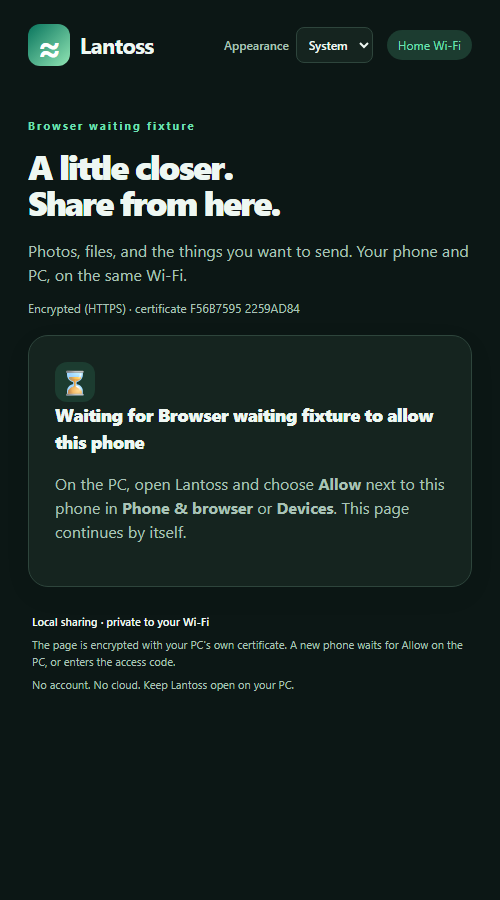
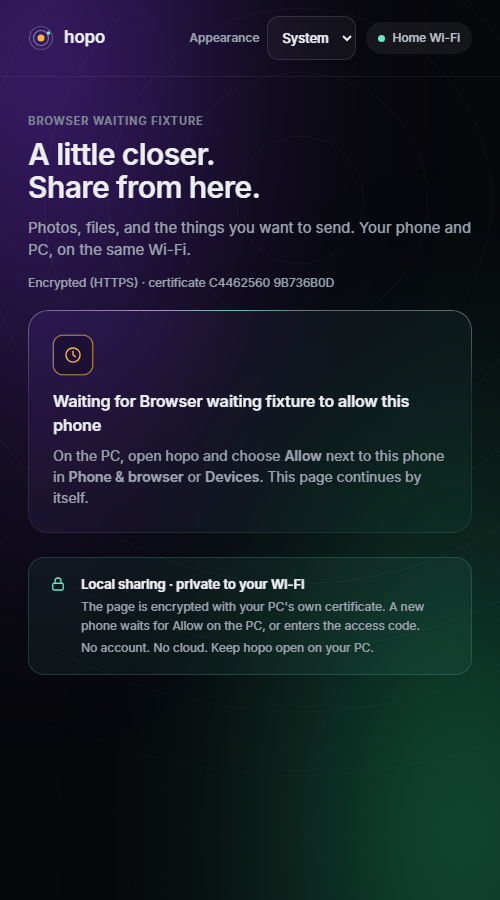
feat(phone): restyle the phone page to hopo
Glass cards, purple and green glows with faint rings, amber buttons and
mint status in dark and a matching light palette, the hopo mark in the
header and line icons. The visible name on the phone page is now hopo;
the CSRF header, cookie and ids are unchanged. Previews re-rendered.

diff --git a/source/Browser/portal.css b/source/Browser/portal.css
@@ -1,114 +1,149 @@
-/* Lantoss browser palette. Keep these tokens aligned with Core/Appearance.cs. */
-:root{color-scheme:light;--bg:#f1f5f3;--surface:#fff;--text:#0e211d;--muted:#4a625c;--border:#cedcd6;--primary:#08634f;--mint:#0f6b47;--sidebar:#e6eeea;--soft:#d8efe5;--accent:#0a6e58;--on-accent:#fff;--danger:#b42f37;--danger-soft:#fce7e6}
+/* hopo browser palette. Keep these tokens aligned with Core/Appearance.cs. */
+:root{color-scheme:light;--ground:#f4f5f9;--text:#14161d;--muted:#555c6b;--eyebrow:#5c6372;--glass:rgba(255,255,255,.76);--glass-border:rgba(20,22,29,.14);--edge:rgba(255,255,255,.95);--sheen-a:rgba(169,139,255,.7);--sheen-b:rgba(95,217,174,.7);--line:rgba(20,22,29,.1);--well:rgba(20,22,29,.035);--field:rgba(255,255,255,.92);--field-border:rgba(20,22,29,.2);--secondary:rgba(20,22,29,.04);--secondary-border:rgba(20,22,29,.16);--secondary-hover:rgba(20,22,29,.08);--chip:rgba(20,22,29,.06);--chip-text:#3f4552;--accent:#f5b54a;--accent-hover:#ffc567;--on-accent:#1a1204;--link:#8a5300;--mint:#0b7a5f;--mint-soft:rgba(11,122,95,.08);--mint-border:rgba(11,122,95,.24);--phone:#7b4fd6;--phone-soft:rgba(123,79,214,.1);--danger:#b42f37;--danger-soft:rgba(180,47,55,.08);--glow-a:rgba(169,139,255,.3);--glow-a-mid:rgba(169,139,255,.1);--glow-b:rgba(95,217,174,.26);--glow-b-mid:rgba(95,217,174,.09);--ring:rgba(20,22,29,.045);--shadow:0 10px 30px rgba(20,22,29,.06)}
 
 *{box-sizing:border-box}
-body{margin:0;background:var(--bg);color:var(--text);font-family:system-ui,-apple-system,"Segoe UI",sans-serif;line-height:1.5}
-header{max-width:1032px;margin:auto;padding:24px 28px;display:flex;align-items:center;justify-content:space-between}
-.brand{display:flex;align-items:center;gap:10px;color:var(--text);text-decoration:none;font-size:22px;font-weight:750;letter-spacing:-.6px}
-.logo{display:grid;place-items:center;background:linear-gradient(135deg,#08745d,#91e5b4);color:white;border-radius:12px;width:42px;height:42px;font-size:35px;line-height:1}
-.pill{font-size:12px;background:var(--soft);color:var(--primary);padding:6px 11px;border-radius:20px}
-main{max-width:880px;margin:28px auto 60px;padding:0 28px}
-.eyebrow{font-size:11px;letter-spacing:2px;font-weight:700;color:var(--primary);margin:0 0 13px}
-h1{font-size:clamp(34px,6vw,54px);font-weight:800;line-height:1.08;letter-spacing:-1.8px;margin:0 0 18px}
-.intro{font-size:16px;color:var(--muted);max-width:530px;margin:0 0 26px}
-.security{font-size:12px;color:var(--muted);margin:-14px 0 18px}
-.card{background:var(--surface);border:1px solid var(--border);border-radius:20px;padding:26px;margin:18px 0;box-shadow:0 8px 28px #0000000d}
-.host{display:flex;align-items:center;gap:14px;margin:0 0 13px}.host .eyebrow{margin:0}
-#host-picture{width:44px;height:44px;border-radius:50%;object-fit:cover;border:2px solid var(--accent)}
-.avatar{flex:0 0 auto;display:grid;place-items:center;width:48px;height:48px;border-radius:50%;overflow:hidden;background:var(--soft);color:var(--primary);font-weight:800;font-size:19px}
+html{background:var(--ground)}
+body{margin:0;min-height:100vh;position:relative;background:var(--ground);color:var(--text);font-family:'Inter',system-ui,-apple-system,'Segoe UI',Roboto,sans-serif;font-size:14px;line-height:1.5;-webkit-font-smoothing:antialiased}
+a{color:var(--link);text-decoration:none}
+a:hover{text-decoration:underline}
+.aurora{position:fixed;inset:0;overflow:hidden;pointer-events:none;z-index:0}
+.glow{position:absolute;width:125%;height:135%;border-radius:50%;filter:blur(70px)}
+.glow-a{left:-55%;top:-60%;background:radial-gradient(closest-side,var(--glow-a),var(--glow-a-mid) 55%,transparent);animation:hopo-drift-a 60s ease-in-out infinite alternate}
+.glow-b{right:-55%;bottom:-60%;background:radial-gradient(closest-side,var(--glow-b),var(--glow-b-mid) 55%,transparent);animation:hopo-drift-b 68s ease-in-out infinite alternate}
+.rings{position:absolute;right:-700px;top:-700px;width:1800px;height:1800px;border-radius:50%;background:repeating-radial-gradient(circle,transparent 0 63px,var(--ring) 63px 64px);-webkit-mask:radial-gradient(circle,#000 25%,transparent 68%);mask:radial-gradient(circle,#000 25%,transparent 68%)}
+@keyframes hopo-drift-a{to{transform:translate(14%,10%) scale(.95)}}
+@keyframes hopo-drift-b{to{transform:translate(-18%,-12%) scale(1.1)}}
+header,main{position:relative;z-index:1}
+header{max-width:1032px;margin:auto;padding:16px 28px;display:flex;align-items:center;justify-content:space-between;gap:16px;border-bottom:1px solid var(--line)}
+.brand{display:flex;align-items:center;gap:10px;min-height:44px;color:var(--text);text-decoration:none;font-size:17px;font-weight:600;letter-spacing:-.01em}
+.brand:hover{text-decoration:none}
+.mark{flex:none}
+.mark-dot{fill:var(--mint)}
+.pill{display:inline-flex;align-items:center;gap:7px;height:32px;padding:0 12px;border-radius:999px;font-size:12px;font-weight:500;background:var(--chip);color:var(--chip-text);white-space:nowrap}
+.pill::before{content:"";width:7px;height:7px;border-radius:50%;background:var(--mint)}
+main{max-width:880px;margin:0 auto;padding:36px 28px 64px}
+.eyebrow{font-size:11px;letter-spacing:.08em;text-transform:uppercase;font-weight:600;color:var(--eyebrow);margin:0 0 8px}
+h1{font-size:clamp(28px,6vw,40px);font-weight:600;line-height:1.12;letter-spacing:-.02em;margin:0 0 12px}
+.intro{font-size:15px;color:var(--muted);max-width:530px;margin:0 0 20px}
+.security{font-size:12px;color:var(--muted);margin:-8px 0 18px}
+.card{position:relative;background:var(--glass);border:1px solid var(--glass-border);border-radius:20px;padding:24px;margin:16px 0;box-shadow:var(--shadow);-webkit-backdrop-filter:blur(20px) saturate(140%);backdrop-filter:blur(20px) saturate(140%)}
+.card::before{content:"";position:absolute;inset:-1px;border-radius:inherit;padding:1px;background:linear-gradient(180deg,var(--edge),transparent 40%);-webkit-mask:linear-gradient(#000 0 0) content-box,linear-gradient(#000 0 0);-webkit-mask-composite:xor;mask-composite:exclude;pointer-events:none}
+.card::after{content:"";position:absolute;left:18%;right:18%;top:-1px;height:1px;background:linear-gradient(90deg,transparent,var(--sheen-a),var(--sheen-b),transparent);pointer-events:none;animation:hopo-sheen 7s ease-in-out infinite alternate}
+@keyframes hopo-sheen{from{transform:translateX(-22%);opacity:.7}to{transform:translateX(22%);opacity:1}}
+.host{display:flex;align-items:center;gap:12px;margin:0 0 8px}.host .eyebrow{margin:0}
+#host-picture{width:40px;height:40px;border-radius:50%;object-fit:cover;border:2px solid var(--accent)}
+.avatar{flex:0 0 auto;display:grid;place-items:center;width:44px;height:44px;border-radius:50%;overflow:hidden;background:var(--phone-soft);color:var(--phone);font-weight:600;font-size:18px;border:1px solid var(--glass-border)}
 .avatar img{width:100%;height:100%;object-fit:cover}
-#profile-form{display:grid;gap:10px;margin-top:16px}
-.profile-actions{display:flex;flex-wrap:wrap;gap:10px}
-.file-button{display:inline-flex;align-items:center;border:1px solid var(--border);border-radius:9px;padding:11px 16px;font-weight:700;font-size:14px;cursor:pointer;color:var(--text);background:var(--surface)}
-.file-button:focus-within{outline:2px solid var(--primary);outline-offset:2px}
-h2{font-size:18px;font-weight:800;letter-spacing:-.4px;margin:0 0 5px}
+#profile-form{display:grid;gap:10px;margin-top:4px}
+.profile-actions{display:flex;flex-wrap:wrap;gap:10px;margin-top:4px}
+.file-button{display:inline-flex;align-items:center;min-height:44px;border:1px solid var(--secondary-border);border-radius:12px;padding:0 16px;font-weight:500;font-size:13px;cursor:pointer;color:var(--text);background:var(--secondary)}
+.file-button:hover{background:var(--secondary-hover)}
+.file-button:focus-within{outline:2px solid var(--accent);outline-offset:2px}
+h2{font-size:16px;font-weight:600;letter-spacing:-.01em;margin:0 0 4px}
 p{color:var(--muted)}
-.section-title{display:flex;align-items:flex-start;gap:13px;margin-bottom:22px}
+strong{font-weight:600}
+.section-title{display:flex;align-items:flex-start;gap:14px;margin-bottom:20px}
 .section-title p{margin:0;font-size:13px}
-.symbol{display:inline-grid;place-items:center;flex-shrink:0;width:40px;height:40px;border-radius:12px;color:var(--primary);background:var(--soft);font-size:25px;font-weight:500}
-.mint{color:var(--mint);background:var(--soft)}
-.picker{display:flex;flex-direction:column;align-items:center;text-align:center;border:1.5px dashed var(--primary);background:var(--bg);padding:25px 12px;gap:6px;border-radius:13px;cursor:pointer}
-.picker-icon{font-size:28px;color:var(--primary)}
+.i{width:20px;height:20px;flex:none;fill:none;stroke:currentColor;stroke-width:1.7;stroke-linecap:round;stroke-linejoin:round}
+.symbol{position:relative;display:inline-grid;place-items:center;flex-shrink:0;width:40px;height:40px;border-radius:10px;color:var(--link);background:var(--well);border:1px solid var(--glass-border)}
+.symbol.mint{color:var(--mint)}
+#waiting .symbol,#login .symbol{margin-bottom:14px}
+#waiting p,#login p{font-size:14px;margin:8px 0 0}
+.pulse::after{content:"";position:absolute;inset:-1px;border-radius:inherit;border:1px solid var(--accent);animation:hopo-pulse 2.4s ease-out infinite}
+@keyframes hopo-pulse{from{opacity:.8;transform:scale(1)}to{opacity:0;transform:scale(1.6)}}
+.picker{display:flex;flex-direction:column;align-items:center;text-align:center;border:1px dashed var(--secondary-border);background:var(--well);padding:24px 12px;gap:6px;border-radius:14px;cursor:pointer;transition:border-color .2s ease,background-color .2s ease}
+.picker:hover{border-color:var(--accent)}
+.picker-icon{display:grid;place-items:center;width:40px;height:40px;border-radius:50%;background:var(--accent);color:var(--on-accent);margin-bottom:4px}
+.picker strong{font-size:14px}
 .picker span:last-child{font-size:12px;color:var(--muted)}
 .file-input{position:absolute;width:1px;height:1px;opacity:0;overflow:hidden}
-.file-input:focus-visible+.selection,.picker:focus-within{outline:3px solid var(--primary)}
-.selection{list-style:none;padding:0;margin:15px 0}
-.selection li{padding:8px 0;border-bottom:1px solid var(--border);font-size:13px;overflow-wrap:anywhere}
+.file-input:focus-visible+.selection,.picker:focus-within{outline:2px solid var(--accent);outline-offset:2px}
+.selection{list-style:none;padding:0;margin:14px 0}
+.selection li{padding:10px 0;border-bottom:1px solid var(--line);font-size:13px;overflow-wrap:anywhere}
 .selection small{color:var(--muted);float:right;margin-left:12px}
-.actions{display:flex;gap:10px;align-items:center}
-button,.download{font:inherit;font-size:14px;font-weight:700;border:0;border-radius:10px;padding:12px 17px;cursor:pointer;display:inline-flex;align-items:center;justify-content:center;gap:20px;background:var(--accent);color:var(--on-accent);text-decoration:none}
+.actions{display:flex;flex-wrap:wrap;gap:10px;align-items:center}
+button,.download{font:inherit;font-size:13px;font-weight:600;min-height:44px;border:1px solid var(--accent);border-radius:12px;padding:0 18px;cursor:pointer;display:inline-flex;align-items:center;justify-content:center;gap:8px;background:var(--accent);color:var(--on-accent);text-decoration:none;transition:transform .3s cubic-bezier(.25,1.12,.5,1),background-color .2s ease,border-color .2s ease}
 button:disabled{opacity:.45;cursor:default}
-button:hover:not(:disabled),.download:hover{filter:brightness(.94)}
-button:focus-visible,a:focus-visible,input:focus-visible{outline:3px solid var(--primary);outline-offset:3px}
-.secondary,.icon-button{background:var(--sidebar);color:var(--text)}
-.icon-button{margin-left:auto;min-width:38px;padding:7px;font-size:21px}
-.connected{display:flex;align-items:center;gap:8px;font-size:12px;color:var(--mint);margin-top:26px}
+button:hover:not(:disabled),.download:hover{background:var(--accent-hover);border-color:var(--accent-hover);text-decoration:none;transform:scale(1.02)}
+button:active:not(:disabled),.download:active{transform:scale(.97)}
+button:focus-visible,a:focus-visible,input:focus-visible,textarea:focus-visible{outline:2px solid var(--accent);outline-offset:2px}
+.secondary,.icon-button{background:var(--secondary);border-color:var(--secondary-border);color:var(--text);font-weight:500}
+.secondary:hover:not(:disabled),.icon-button:hover:not(:disabled){background:var(--secondary-hover);border-color:var(--secondary-border)}
+.icon-button{margin-left:auto;width:44px;padding:0;flex:none}
+.connected{display:inline-flex;align-items:center;gap:8px;height:32px;padding:0 12px;border-radius:999px;font-size:12px;font-weight:500;color:var(--mint);background:var(--mint-soft);border:1px solid var(--mint-border);margin-top:20px}
 .dot{width:7px;height:7px;background:var(--mint);border-radius:50%}
-.downloads{display:grid;gap:10px}
-.file-row{display:flex;align-items:center;gap:12px;background:var(--bg);border:1px solid var(--border);padding:13px;border-radius:12px}
-.file-name{font-size:13px;font-weight:600;overflow-wrap:anywhere}
-.file-meta{font-size:11px;color:var(--muted)}
-.file-row .download{margin-left:auto;font-size:12px;padding:9px 12px;flex-shrink:0}
-.empty{padding:24px 15px;text-align:center;background:var(--bg);border-radius:12px;font-size:13px;color:var(--muted)}
+.downloads{display:grid;gap:8px}
+.file-row{display:flex;align-items:center;gap:12px;background:var(--well);border:1px solid var(--line);padding:12px 14px;border-radius:14px}
+.file-name{font-size:14px;font-weight:500;overflow-wrap:anywhere}
+.file-meta{font-size:12px;color:var(--muted)}
+.file-row .download{margin-left:auto;flex-shrink:0}
+.empty{padding:22px 16px;text-align:center;border:1px dashed var(--secondary-border);border-radius:14px;font-size:13px;color:var(--muted)}
 #notice:empty{display:none}
-#notice{padding:12px 15px;border-radius:10px;background:var(--soft);font-size:13px;margin-bottom:18px}
-#notice.error{color:var(--danger);background:var(--danger-soft)}
-#login-form{display:grid;gap:10px;margin-top:20px}
+#notice{padding:12px 16px;border-radius:14px;background:var(--mint-soft);border:1px solid var(--mint-border);font-size:13px;margin-bottom:18px}
+#notice.error{color:var(--danger);background:var(--danger-soft);border-color:var(--danger)}
+#login-form{display:grid;gap:10px;margin-top:18px}
 label{font-size:13px;font-weight:600}
-input:not([type=file]){font:inherit;font-size:20px;letter-spacing:2px;padding:12px;border:1px solid var(--border);border-radius:8px;width:100%;color:var(--text);background:var(--surface)}
-#transfer-label{font-size:12px;margin:17px 0 6px}
-progress{width:100%;height:8px;accent-color:var(--primary)}
-footer{font-size:11px;line-height:1.6;color:var(--muted);margin-top:26px;padding:0 4px}
-footer strong{font-weight:600;color:var(--text)}
-footer p{margin:5px 0}
+input:not([type=file]){font:inherit;font-size:16px;min-height:48px;padding:0 14px;border:1px solid var(--field-border);border-radius:12px;width:100%;color:var(--text);background:var(--field)}
+#code{font-size:20px;letter-spacing:.12em}
+::placeholder{color:var(--muted);opacity:1}
+#transfer-label{font-size:12px;margin:16px 0 6px}
+progress{-webkit-appearance:none;appearance:none;width:100%;height:6px;border:0;border-radius:999px;overflow:hidden;background:var(--chip);accent-color:var(--accent)}
+progress::-webkit-progress-bar{background:var(--chip);border-radius:999px}
+progress::-webkit-progress-value{background:linear-gradient(90deg,var(--accent),var(--mint));border-radius:999px}
+progress::-moz-progress-bar{background:linear-gradient(90deg,var(--accent),var(--mint));border-radius:999px}
+footer{display:flex;gap:14px;align-items:flex-start;font-size:12px;line-height:1.55;color:var(--muted);margin-top:24px;padding:16px 20px;border-radius:16px;background:var(--mint-soft);border:1px solid var(--mint-border)}
+footer .i{width:18px;height:18px;color:var(--mint);margin-top:1px}
+footer strong{font-size:13px;font-weight:600;color:var(--text)}
+footer p{margin:4px 0 0}
 [hidden]{display:none!important}
-@media(min-width:800px){#sharing{display:grid;grid-template-columns:1fr 1fr;gap:18px}
-#sharing .connected{grid-column:1/-1;margin:0}
+@media(min-width:800px){#sharing{display:grid;grid-template-columns:1fr 1fr;gap:16px}
+#sharing .connected{grid-column:1/-1;justify-self:start;margin:0}
 .card{margin:0}
 .receive-card{align-self:start}
-#login{max-width:480px;margin:25px 0}
-.intro{margin-bottom:32px}
+#login,#waiting{max-width:520px;margin:24px 0}
+.intro{margin-bottom:28px}
 }
-@media(max-width:480px){header{padding:18px 20px}
-main{padding:0 20px;margin-top:24px}
-.card{padding:21px}
+@media(max-width:480px){header{padding:12px 16px}
+main{padding:28px 16px 48px}
+.card{padding:20px}
 .section-title p{font-size:12px}
 .file-row{flex-wrap:wrap}
 .file-row .download{margin-left:0;width:100%}
-h1{letter-spacing:-1.2px}
 }
 
 .spaces-card,.activity-card{grid-column:1/-1}
 .space-list{display:grid;grid-template-columns:repeat(auto-fit,minmax(170px,1fr));gap:10px}
-.space-card{display:flex;flex-direction:column;align-items:flex-start;gap:6px;color:var(--text);background:var(--bg);border:1px solid var(--border);padding:15px;text-align:left}
-.space-card span{font-size:11px;color:var(--muted);font-weight:400}
-.space-navigation{display:flex;align-items:center;gap:10px;flex-wrap:wrap;margin:20px 0 12px}
+.space-card{display:flex;flex-direction:column;align-items:flex-start;gap:4px;color:var(--text);background:var(--well);border:1px solid var(--glass-border);border-radius:14px;padding:14px 16px;text-align:left;font-weight:500}
+.space-card span{font-size:12px;color:var(--link);font-weight:500}
+.space-card:hover:not(:disabled){background:var(--secondary-hover);border-color:var(--accent);transform:none}
+.space-navigation{display:flex;align-items:center;gap:10px;flex-wrap:wrap;margin:18px 0 12px}
 .space-navigation strong{font-size:13px;overflow-wrap:anywhere}
-.space-navigation button{font-size:11px;padding:8px 10px}
-.transfer-row{padding:14px 0;border-bottom:1px solid var(--border)}
+.space-navigation button{font-size:12px;padding:0 12px}
+.transfer-row{padding:14px 0;border-bottom:1px solid var(--line)}
 .transfer-row:first-child{padding-top:0}
 .transfer-row:last-child{border-bottom:0}
 .transfer-row strong{font-size:13px;overflow-wrap:anywhere}
 .transfer-row p{margin:6px 0;font-size:12px}
-.speed{color:var(--primary);font-size:12px;font-weight:600}
-@media(min-width:800px){.spaces-card,.activity-card{grid-column:1/-1}
-}
+.speed{color:var(--mint);font-size:12px;font-weight:600}
 
 
 /* Shared semantic tokens also cover code entry, file lists, empty states and transfer feedback. */
-:root[data-theme=dark]{color-scheme:dark;--bg:#0c1715;--surface:#15241f;--text:#eef7f2;--muted:#a9c2b7;--border:#2e453c;--primary:#6fe0b3;--mint:#74e0b4;--sidebar:#0f1d1a;--soft:#1c3c30;--accent:#6fe0b3;--on-accent:#0b1f18;--danger:#ffb4ab;--danger-soft:#472826;}
+:root[data-theme=dark]{color-scheme:dark;--ground:#07080c;--text:#edeef2;--muted:#9ba1ae;--eyebrow:#7d8494;--glass:rgba(255,255,255,.035);--glass-border:rgba(255,255,255,.08);--edge:rgba(255,255,255,.3);--sheen-a:rgba(200,150,255,.95);--sheen-b:rgba(110,255,190,.8);--line:rgba(255,255,255,.06);--well:rgba(0,0,0,.25);--field:rgba(0,0,0,.25);--field-border:rgba(255,255,255,.12);--secondary:rgba(255,255,255,.04);--secondary-border:rgba(255,255,255,.12);--secondary-hover:rgba(255,255,255,.08);--chip:rgba(255,255,255,.06);--chip-text:#b9beca;--accent:#f5b54a;--accent-hover:#ffc567;--on-accent:#1a1204;--link:#f5b54a;--mint:#6ee7c5;--mint-soft:rgba(110,231,197,.06);--mint-border:rgba(110,231,197,.18);--phone:#b57cff;--phone-soft:rgba(181,124,255,.12);--danger:#ff8a80;--danger-soft:rgba(255,138,128,.08);--glow-a:rgba(140,60,255,.45);--glow-a-mid:rgba(140,60,255,.15);--glow-b:rgba(40,240,150,.34);--glow-b-mid:rgba(40,240,150,.11);--ring:rgba(255,255,255,.03);--shadow:none}
 
 /* Follow the device before JavaScript loads, while an explicit Light choice always wins. */
-@media(prefers-color-scheme:dark){:root:not([data-theme=light]){color-scheme:dark;--bg:#0c1715;--surface:#15241f;--text:#eef7f2;--muted:#a9c2b7;--border:#2e453c;--primary:#6fe0b3;--mint:#74e0b4;--sidebar:#0f1d1a;--soft:#1c3c30;--accent:#6fe0b3;--on-accent:#0b1f18;--danger:#ffb4ab;--danger-soft:#472826;}
+@media(prefers-color-scheme:dark){:root:not([data-theme=light]){color-scheme:dark;--ground:#07080c;--text:#edeef2;--muted:#9ba1ae;--eyebrow:#7d8494;--glass:rgba(255,255,255,.035);--glass-border:rgba(255,255,255,.08);--edge:rgba(255,255,255,.3);--sheen-a:rgba(200,150,255,.95);--sheen-b:rgba(110,255,190,.8);--line:rgba(255,255,255,.06);--well:rgba(0,0,0,.25);--field:rgba(0,0,0,.25);--field-border:rgba(255,255,255,.12);--secondary:rgba(255,255,255,.04);--secondary-border:rgba(255,255,255,.12);--secondary-hover:rgba(255,255,255,.08);--chip:rgba(255,255,255,.06);--chip-text:#b9beca;--accent:#f5b54a;--accent-hover:#ffc567;--on-accent:#1a1204;--link:#f5b54a;--mint:#6ee7c5;--mint-soft:rgba(110,231,197,.06);--mint-border:rgba(110,231,197,.18);--phone:#b57cff;--phone-soft:rgba(181,124,255,.12);--danger:#ff8a80;--danger-soft:rgba(255,138,128,.08);--glow-a:rgba(140,60,255,.45);--glow-a-mid:rgba(140,60,255,.15);--glow-b:rgba(40,240,150,.34);--glow-b-mid:rgba(40,240,150,.11);--ring:rgba(255,255,255,.03);--shadow:none}
 }
 
-.header-actions{display:flex;align-items:center;gap:14px}
-.appearance{display:flex;align-items:center;gap:7px;color:var(--muted);font-size:12px}
-.appearance select{padding:8px;border:1px solid var(--border);border-radius:8px;font:inherit;color:var(--text);background:var(--surface)}
-select:focus-visible{outline:3px solid var(--primary);outline-offset:3px}
+.header-actions{display:flex;align-items:center;gap:10px}
+.appearance{display:flex;align-items:center;gap:8px;color:var(--muted);font-size:12px;font-weight:500}
+.appearance select{min-height:44px;padding:0 10px;border:1px solid var(--secondary-border);border-radius:12px;font:inherit;font-size:13px;color:var(--text);background:var(--secondary)}
+.appearance option{color:#14161d;background:#fff}
+select:focus-visible{outline:2px solid var(--accent);outline-offset:2px}
 
-@media(max-width:480px){header{flex-wrap:wrap;gap:12px}
+@media(max-width:480px){header{flex-wrap:wrap;gap:8px}
 .header-actions{width:100%;justify-content:space-between}
 }
 
-textarea{display:block;width:100%;resize:vertical;min-height:110px;padding:12px;margin:8px 0 12px;border:1px solid var(--border);border-radius:12px;background:var(--surface);color:inherit;font:inherit}.note-row{padding:16px 0;border-top:1px solid var(--border)}.note-content{white-space:pre-wrap;overflow-wrap:anywhere;max-height:320px;overflow:auto;margin-bottom:8px}.note-row .actions{margin-top:12px}.copy-helper{position:fixed;top:0;left:-10000px}.notes-card form{margin-bottom:20px}
+textarea{display:block;width:100%;resize:vertical;min-height:110px;padding:12px 14px;margin:8px 0 12px;border:1px solid var(--field-border);border-radius:12px;background:var(--field);color:inherit;font:inherit}.note-row{padding:16px 0;border-top:1px solid var(--line)}.note-content{white-space:pre-wrap;overflow-wrap:anywhere;max-height:320px;overflow:auto;margin-bottom:6px;font-size:14px}.note-row .actions{margin-top:12px}.note-row .actions a{display:inline-flex;align-items:center;min-height:44px;padding:0 4px;font-weight:600;font-size:13px}.copy-helper{position:fixed;top:0;left:-10000px}.notes-card form{margin-bottom:20px}
+
+@media(prefers-reduced-motion:reduce){.glow,.card::after,.pulse::after{animation:none}.pulse::after{opacity:0}button,.download,.picker{transition:none}button:hover:not(:disabled),.download:hover,button:active:not(:disabled),.download:active{transform:none}}

diff --git a/source/Browser/portal.html b/source/Browser/portal.html
@@ -2,11 +2,12 @@
 <html lang="en">
 <head>
   <meta charset="utf-8"><meta name="viewport" content="width=device-width, initial-scale=1">
-  <title>Lantoss · Home sharing</title><link rel="stylesheet" href="/portal.css">
+  <title>hopo · Home sharing</title><link rel="stylesheet" href="/portal.css">
   <script src="/portal.js" defer></script>
 </head>
 <body>
-  <header><a class="brand" href="/"><span class="logo">≈</span> Lantoss</a><div class="header-actions"><label class="appearance" for="appearance">Appearance <select id="appearance"><option value="System">System</option><option value="Light">Light</option><option value="Dark">Dark</option></select></label><span class="pill">Home Wi-Fi</span></div></header>
+  <div class="aurora" aria-hidden="true"><span class="glow glow-a"></span><span class="glow glow-b"></span><span class="rings"></span></div>
+  <header><a class="brand" href="/"><svg class="mark" width="26" height="26" viewBox="0 0 26 26" fill="none" aria-hidden="true"><circle cx="13" cy="13" r="3.5" fill="#F5B54A"/><circle cx="13" cy="13" r="7.5" stroke="currentColor" stroke-opacity=".45" stroke-width="1.2"/><circle cx="13" cy="13" r="11.5" stroke="currentColor" stroke-opacity=".25" stroke-width="1.2"/><circle class="mark-dot" cx="20.5" cy="8" r="1.8"/></svg>hopo</a><div class="header-actions"><label class="appearance" for="appearance">Appearance <select id="appearance"><option value="System">System</option><option value="Light">Light</option><option value="Dark">Dark</option></select></label><span class="pill">Home Wi-Fi</span></div></header>
   <main>
     <div class="host"><img id="host-picture" alt="" hidden><p class="eyebrow" id="device">YOUR PC, WITHIN REACH</p></div>
     <h1>A little closer.<br>Share from here.</h1>
@@ -14,12 +15,12 @@
     <div id="notice" role="status" aria-live="polite"></div>
     <p id="security" class="security"></p>
     <section id="waiting" class="card" hidden>
-      <span class="symbol">⌛</span><h2>Waiting for <span id="waiting-host">the PC</span> to allow this phone</h2>
-      <p>On the PC, open Lantoss and choose <strong>Allow</strong> next to this phone in <strong>Phone &amp; browser</strong> or <strong>Devices</strong>. This page continues by itself.</p>
+      <span class="symbol pulse"><svg class="i" viewBox="0 0 24 24" aria-hidden="true"><circle cx="12" cy="12" r="8.5"/><path d="M12 7.5V12l3 2"/></svg></span><h2>Waiting for <span id="waiting-host">the PC</span> to allow this phone</h2>
+      <p>On the PC, open hopo and choose <strong>Allow</strong> next to this phone in <strong>Phone &amp; browser</strong> or <strong>Devices</strong>. This page continues by itself.</p>
     </section>
     <section id="login" class="card" hidden>
-      <span class="symbol">⌑</span><h2>This PC asks for a code</h2>
-      <p>Find the access code in Lantoss’s <strong>Phone &amp; browser</strong> screen.</p>
+      <span class="symbol"><svg class="i" viewBox="0 0 24 24" aria-hidden="true"><rect x="5" y="11" width="14" height="9" rx="2"/><path d="M8 11V8a4 4 0 0 1 8 0v3"/></svg></span><h2>This PC asks for a code</h2>
+      <p>Find the access code in hopo’s <strong>Phone &amp; browser</strong> screen.</p>
       <form id="login-form"><label for="code">Access code</label><input id="code" name="code" maxlength="24" autocomplete="one-time-code" autocapitalize="characters" spellcheck="false" required><button type="submit" id="connect">Connect</button></form>
     </section>
     <div id="sharing" hidden>
@@ -31,29 +32,29 @@
       </section>
       <section id="devices-card" class="card" hidden><h2>Other PCs on your Wi-Fi</h2><p>Choose the PC whose files or text you want to access.</p><div id="browser-devices" class="space-list"></div></section>
       <section class="card notes-card">
-        <div class="section-title"><span class="symbol">✎</span><div><h2>Text &amp; links</h2><p>Shared with this PC. Find received notes in the app's Text &amp; links area.</p></div><button id="notes-refresh" class="icon-button" aria-label="Refresh shared notes">↻</button></div>
+        <div class="section-title"><span class="symbol"><svg class="i" viewBox="0 0 24 24" aria-hidden="true"><path d="M4 20h4L19 9l-4-4L4 16z"/><path d="M13.5 6.5l4 4"/></svg></span><div><h2>Text &amp; links</h2><p>Shared with this PC. Find received notes in the app's Text &amp; links area.</p></div><button id="notes-refresh" class="icon-button" aria-label="Refresh shared notes"><svg class="i" viewBox="0 0 24 24" aria-hidden="true"><path d="M20 12a8 8 0 1 1-2.34-5.66"/><path d="M20 4v5h-5"/></svg></button></div>
         <form id="note-form"><label for="note-content">Text or link</label><textarea id="note-content" maxlength="16000" rows="4" placeholder="Paste a link or write a note…" required></textarea><button id="note-send" type="submit">Share with this PC</button></form>
         <div id="notes-list" class="downloads"></div>
       </section>
       <section class="card spaces-card">
-        <div class="section-title"><span class="symbol">▤</span><div><h2>Shared Spaces</h2><p>Folders your PC has chosen to share. Permissions are set by the host.</p></div><button id="spaces-refresh" class="icon-button" aria-label="Refresh shared spaces">↻</button></div>
+        <div class="section-title"><span class="symbol"><svg class="i" viewBox="0 0 24 24" aria-hidden="true"><path d="M3 7a2 2 0 0 1 2-2h4l2 2h8a2 2 0 0 1 2 2v8a2 2 0 0 1-2 2H5a2 2 0 0 1-2-2z"/></svg></span><div><h2>Shared Spaces</h2><p>Folders your PC has chosen to share. Permissions are set by the host.</p></div><button id="spaces-refresh" class="icon-button" aria-label="Refresh shared spaces"><svg class="i" viewBox="0 0 24 24" aria-hidden="true"><path d="M20 12a8 8 0 1 1-2.34-5.66"/><path d="M20 4v5h-5"/></svg></button></div>
         <div id="spaces" class="space-list"></div>
         <div id="space-browser" hidden><div class="space-navigation"><button id="space-up" class="secondary">↑ Up</button><strong id="space-path"></strong><button id="inbox" class="secondary">Use PC inbox instead</button></div><div id="space-entries" class="downloads"></div></div>
       </section>
       <section class="card send-card">
-        <div class="section-title"><span class="symbol">↑</span><div><h2 id="send-title">Send to your PC</h2><p id="upload-hint">Pick files or photos. Approve the request on your PC.</p></div></div>
-        <label class="picker" for="files"><span class="picker-icon">＋</span><strong>Choose files or photos</strong><span>Up to 100 files · 2 GiB each</span></label>
+        <div class="section-title"><span class="symbol"><svg class="i" viewBox="0 0 24 24" aria-hidden="true"><path d="M12 15V4M7 9l5-5 5 5M4 15v4a1 1 0 0 0 1 1h14a1 1 0 0 0 1-1v-4"/></svg></span><div><h2 id="send-title">Send to your PC</h2><p id="upload-hint">Pick files or photos. Approve the request on your PC.</p></div></div>
+        <label class="picker" for="files"><span class="picker-icon"><svg class="i" viewBox="0 0 24 24" aria-hidden="true"><path d="M12 5v14M5 12h14"/></svg></span><strong>Choose files or photos</strong><span>Up to 100 files · 2 GiB each</span></label>
         <input id="files" type="file" multiple class="file-input">
         <ul id="selection" class="selection"></ul>
-        <div class="actions"><button id="send" disabled>Send to PC <span aria-hidden="true">↗</span></button><button id="cancel" class="secondary" hidden>Cancel</button></div>
+        <div class="actions"><button id="send" disabled><svg class="i" viewBox="0 0 24 24" aria-hidden="true"><rect x="5" y="11" width="14" height="9" rx="2"/><path d="M8 11V8a4 4 0 0 1 8 0v3"/></svg>Send to PC</button><button id="cancel" class="secondary" hidden>Cancel</button></div>
         <div id="transfer" hidden><p id="transfer-label" role="status" aria-live="polite"></p><p id="transfer-speed" class="speed"></p><progress id="progress" max="100" value="0" aria-label="Upload progress"></progress></div>
       </section>
-      <section class="card activity-card"><div class="section-title"><span class="symbol">↔</span><div><h2>Live transfers</h2><p>Your browser’s uploads and downloads · measured speed and estimated time.</p></div></div><div id="live-transfers"></div></section>
+      <section class="card activity-card"><div class="section-title"><span class="symbol mint"><svg class="i" viewBox="0 0 24 24" aria-hidden="true"><path d="M4 8h13M13 4l4 4-4 4M20 16H7M11 12l-4 4 4 4"/></svg></span><div><h2>Live transfers</h2><p>Your browser’s uploads and downloads · measured speed and estimated time.</p></div></div><div id="live-transfers"></div></section>
       <section class="card receive-card">
-        <div class="section-title"><span class="symbol mint">↓</span><div><h2>Get files from your PC</h2><p>Only files selected in Lantoss appear here.</p></div><button id="refresh" class="icon-button" aria-label="Refresh shared files">↻</button></div>
+        <div class="section-title"><span class="symbol mint"><svg class="i" viewBox="0 0 24 24" aria-hidden="true"><path d="M12 4v11M7 10l5 5 5-5M4 15v4a1 1 0 0 0 1 1h14a1 1 0 0 0 1-1v-4"/></svg></span><div><h2>Get files from your PC</h2><p>Only files selected in hopo appear here.</p></div><button id="refresh" class="icon-button" aria-label="Refresh shared files"><svg class="i" viewBox="0 0 24 24" aria-hidden="true"><path d="M20 12a8 8 0 1 1-2.34-5.66"/><path d="M20 4v5h-5"/></svg></button></div>
         <div id="downloads" class="downloads"></div>
       </section>
     </div>
-    <footer><strong>Local sharing · private to your Wi-Fi</strong><p>The page is encrypted with your PC's own certificate. A new phone waits for Allow on the PC, or enters the access code.</p><p>No account. No cloud. Keep Lantoss open on your PC.</p></footer>
+    <footer><svg class="i" viewBox="0 0 24 24" aria-hidden="true"><rect x="5" y="11" width="14" height="9" rx="2"/><path d="M8 11V8a4 4 0 0 1 8 0v3"/></svg><div><strong>Local sharing · private to your Wi-Fi</strong><p>The page is encrypted with your PC's own certificate. A new phone waits for Allow on the PC, or enters the access code.</p><p>No account. No cloud. Keep hopo open on your PC.</p></div></footer>
   </main>
 </body></html>

diff --git a/source/Browser/portal.js b/source/Browser/portal.js
@@ -38,7 +38,7 @@ async function request(path, options = {}) {
   const body = await response.json().catch(() => ({}));
   if (!response.ok) {
     if ((response.status === 401 || (response.status === 403 && body.waiting)) && path !== '/api/session' && path !== '/api/login') { $('sharing').hidden = true; void connect(); }
-    throw new Error(body.error || (response.status === 429 ? 'Too many requests. Wait one minute and try again.' : 'This request could not finish. Check Lantoss on your PC.'));
+    throw new Error(body.error || (response.status === 429 ? 'Too many requests. Wait one minute and try again.' : 'This request could not finish. Check hopo on your PC.'));
   }
   return body;
 }

diff --git a/source/Networking/BrowserPortal.cs b/source/Networking/BrowserPortal.cs
@@ -853,7 +853,7 @@ public sealed partial class BrowserPortal : IDisposable
     {
         string message = TransferEngine.HumanError(error);
         return message.IndexOf((char)92) >= 0 || message.Contains("/Users/", StringComparison.Ordinal) || message.Contains("/home/", StringComparison.Ordinal) || message.Contains("/Volumes/", StringComparison.Ordinal) || message.Contains("/media/", StringComparison.Ordinal)
-            ? error is FileNotFoundException or DirectoryNotFoundException ? "That file is no longer available on the PC." : "The PC could not read or save this file. Check Lantoss on the PC." : message;
+            ? error is FileNotFoundException or DirectoryNotFoundException ? "That file is no longer available on the PC." : "The PC could not read or save this file. Check hopo on the PC." : message;
     }
     private async Task OfferAsync(HttpContext context, Session session)
     {

diff --git a/source/tests/BrowserTests.cs b/source/tests/BrowserTests.cs
@@ -195,7 +195,7 @@ internal static partial class Program
         TransferRegistry registry = new(store);
         using BrowserPortal portal = new(store, registry, new PairingCode(), true);
         portal.ApproveReceive = (request, _) => Task.FromResult(new ReceiveDecision(true, request.DefaultFolder));
-        string source = Path.Combine(store.Root, "Lantoss sample.txt");
+        string source = Path.Combine(store.Root, "hopo sample.txt");
         await File.WriteAllTextAsync(source, "A local browser test file. Production invents no shared files.");
         await portal.ShareAsync([source]);
         await portal.StartAsync(Loopback, 0);
